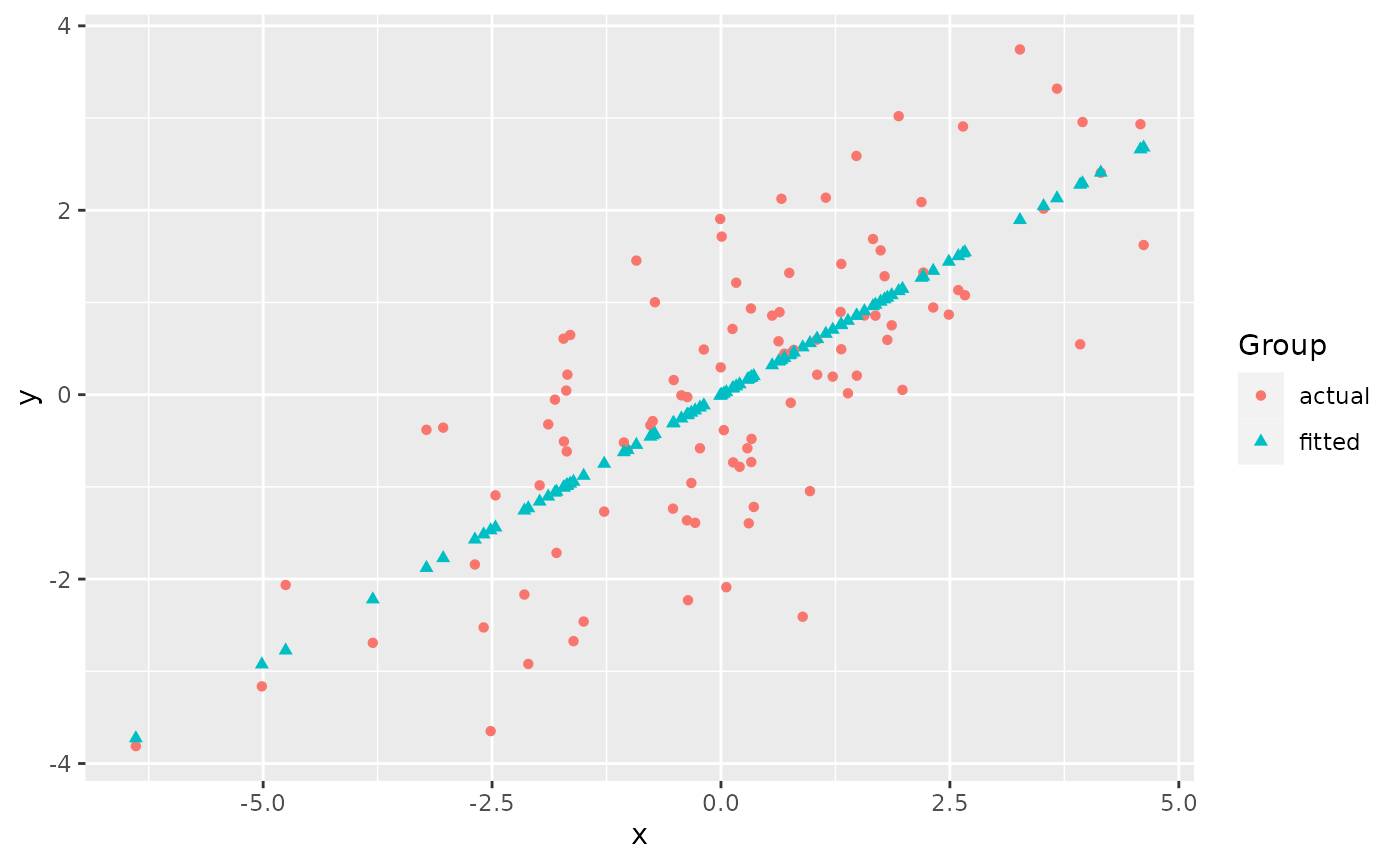
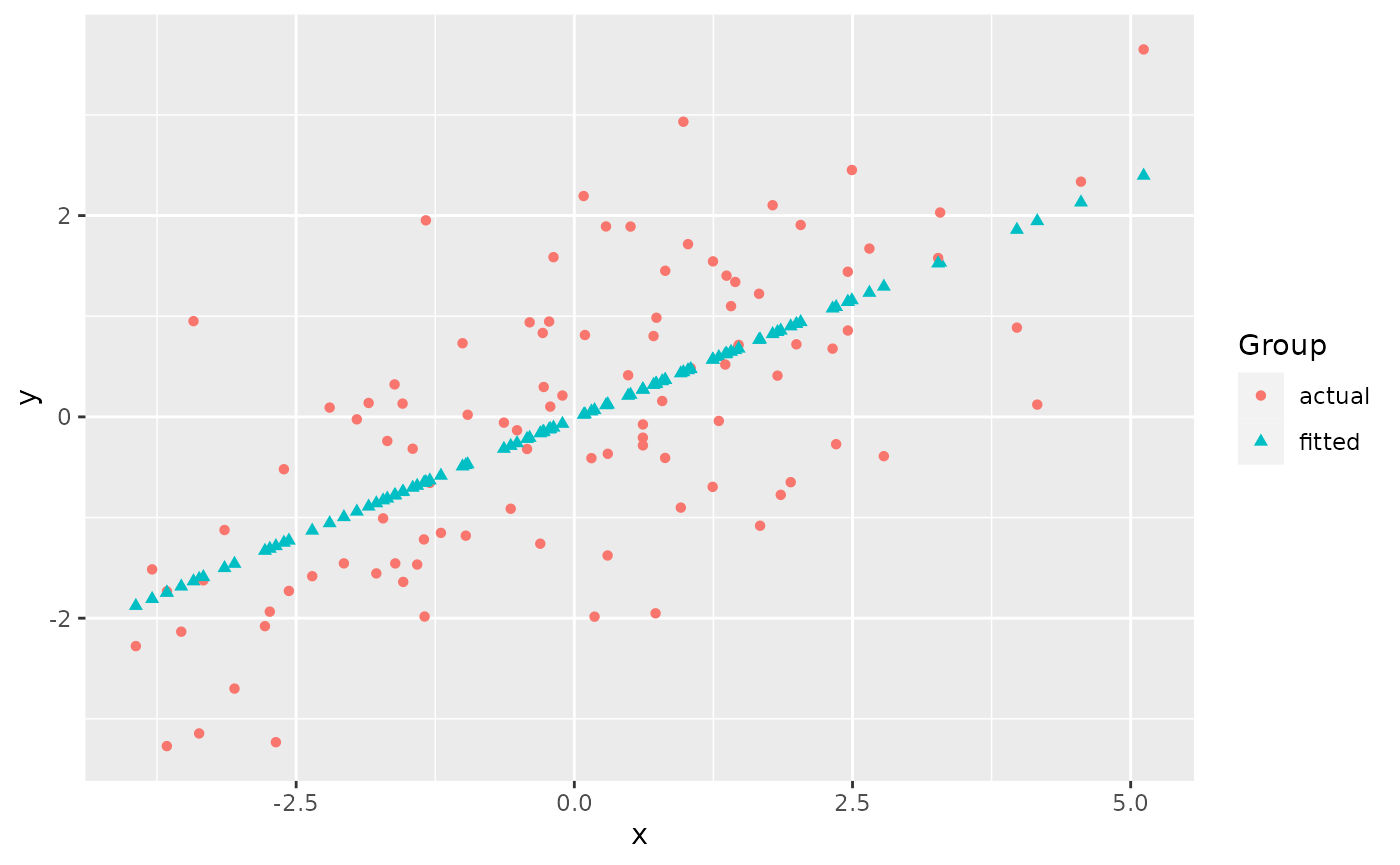
Built site for ggmatplot: 0.1.0@8f145c8

diff --git a/articles/ggmatplot.html b/articles/ggmatplot.html
@@ -101,7 +101,7 @@
 <span class="va">x</span> <span class="op">&lt;-</span> <span class="fu"><a href="https://rdrr.io/r/base/c.html">c</a></span><span class="op">(</span><span class="fu"><a href="https://rdrr.io/r/stats/Normal.html">rnorm</a></span><span class="op">(</span><span class="fl">100</span>, sd <span class="op">=</span> <span class="fl">2</span><span class="op">)</span><span class="op">)</span>
 
 <span class="fu"><a href="https://rdrr.io/r/utils/head.html">head</a></span><span class="op">(</span><span class="va">x</span><span class="op">)</span>
-<span class="co">#&gt; [1]  2.5917937  1.0507029 -0.2296179  0.9717122 -1.8865638 -1.6844239</span>
+<span class="co">#&gt; [1] -2.7803377  2.3528281 -3.7942724 -0.2265223  1.9955695 -1.3456733</span>
 
 <span class="co"># matrix z</span>
 <span class="va">y</span> <span class="op">&lt;-</span> <span class="va">x</span> <span class="op">*</span> <span class="fl">0.5</span> <span class="op">+</span> <span class="fu"><a href="https://rdrr.io/r/stats/Normal.html">rnorm</a></span><span class="op">(</span><span class="fl">100</span>, sd <span class="op">=</span> <span class="fl">1</span><span class="op">)</span>
@@ -111,12 +111,12 @@
 
 <span class="fu"><a href="https://rdrr.io/r/utils/head.html">head</a></span><span class="op">(</span><span class="va">z</span><span class="op">)</span>
 <span class="co">#&gt;       actual     fitted</span>
-<span class="co">#&gt; 1  1.1338425  1.5027161</span>
-<span class="co">#&gt; 2  0.2164647  0.6055352</span>
-<span class="co">#&gt; 3 -0.5813046 -0.1398325</span>
-<span class="co">#&gt; 4 -1.0460801  0.5595490</span>
-<span class="co">#&gt; 5 -0.3216372 -1.1044611</span>
-<span class="co">#&gt; 6 -0.6152521 -0.9867808</span></code></pre></div>
+<span class="co">#&gt; 1 -2.0793029 -1.3303382</span>
+<span class="co">#&gt; 2 -0.2712697  1.0922606</span>
+<span class="co">#&gt; 3 -1.5151676 -1.8088649</span>
+<span class="co">#&gt; 4  0.9472327 -0.1250644</span>
+<span class="co">#&gt; 5  0.7210766  0.9236523</span>
+<span class="co">#&gt; 6 -1.9836083 -0.6532480</span></code></pre></div>
 <p><code>ggmatplot</code> plots vector <code>x</code> against each column of matrix <code>z</code> using the default <code>plot_type = "point"</code>. This will be represented on the resulting plot as two groups, identified using different shapes and colors.</p>
 <div class="sourceCode" id="cb2"><pre class="downlit sourceCode r">
 <code class="sourceCode R"><span class="kw"><a href="https://rdrr.io/r/base/library.html">library</a></span><span class="op">(</span><span class="va"><a href="https://github.com/xuan-liang/ggmatplot">ggmatplot</a></span><span class="op">)</span>
@@ -245,7 +245,7 @@
 
 
       <footer><div class="copyright">
-  <p>Developed by Xuan Liang, Francis Hui, Emi Tanaka, Dilinie Seimon.</p>
+  <p>Developed by Xuan Liang, Francis K. C. Hui, Emi Tanaka, Dilinie Seimon.</p>
 </div>
 
 <div class="pkgdown">

diff --git a/index.html b/index.html
@@ -306,9 +306,9 @@
 <div class="developers">
 <h2>Developers</h2>
 <ul class="list-unstyled">
-<li>Xuan Liang <br><small class="roles"> Author, maintainer </small>  </li>
-<li>Francis Hui <br><small class="roles"> Author </small>  </li>
-<li>Emi Tanaka <br><small class="roles"> Author </small>  </li>
+<li>Xuan Liang <br><small class="roles"> Author, maintainer </small> <a href="https://orcid.org/0000-0002-0792-3751" target="orcid.widget" aria-label="ORCID"><span class="fab fa-orcid orcid" aria-hidden="true"></span></a> </li>
+<li>Francis K. C. Hui <br><small class="roles"> Author </small> <a href="https://orcid.org/0000-0003-0765-3533" target="orcid.widget" aria-label="ORCID"><span class="fab fa-orcid orcid" aria-hidden="true"></span></a> </li>
+<li>Emi Tanaka <br><small class="roles"> Author </small> <a href="https://orcid.org/0000-0002-1455-259X" target="orcid.widget" aria-label="ORCID"><span class="fab fa-orcid orcid" aria-hidden="true"></span></a> </li>
 <li>Dilinie Seimon <br><small class="roles"> Author </small>  </li>
 </ul>
 </div>
@@ -318,7 +318,7 @@
 
 
       <footer><div class="copyright">
-  <p>Developed by Xuan Liang, Francis Hui, Emi Tanaka, Dilinie Seimon.</p>
+  <p>Developed by Xuan Liang, Francis K. C. Hui, Emi Tanaka, Dilinie Seimon.</p>
 </div>
 
 <div class="pkgdown">

diff --git a/authors.html b/authors.html
@@ -138,15 +138,15 @@
 
     <ul class="list-unstyled">
       <li>
-        <p><strong>Xuan Liang</strong>. Author, maintainer. 
+        <p><strong>Xuan Liang</strong>. Author, maintainer. <a href='https://orcid.org/0000-0002-0792-3751' target='orcid.widget' aria-label='ORCID'><span class='fab fa-orcid orcid' aria-hidden='true'></span></a>
         </p>
       </li>
       <li>
-        <p><strong>Francis Hui</strong>. Author. 
+        <p><strong>Francis K. C. Hui</strong>. Author. <a href='https://orcid.org/0000-0003-0765-3533' target='orcid.widget' aria-label='ORCID'><span class='fab fa-orcid orcid' aria-hidden='true'></span></a>
         </p>
       </li>
       <li>
-        <p><strong>Emi Tanaka</strong>. Author. 
+        <p><strong>Emi Tanaka</strong>. Author. <a href='https://orcid.org/0000-0002-1455-259X' target='orcid.widget' aria-label='ORCID'><span class='fab fa-orcid orcid' aria-hidden='true'></span></a>
         </p>
       </li>
       <li>
@@ -163,7 +163,7 @@
 
       <footer>
       <div class="copyright">
-  <p>Developed by Xuan Liang, Francis Hui, Emi Tanaka, Dilinie Seimon.</p>
+  <p>Developed by Xuan Liang, Francis K. C. Hui, Emi Tanaka, Dilinie Seimon.</p>
 </div>
 
 <div class="pkgdown">

diff --git a/reference/ggmatplot.html b/reference/ggmatplot.html
@@ -283,7 +283,7 @@ or <a href='https://ggplot2.tidyverse.org/reference/index.html#section-stats'><c
 
       <footer>
       <div class="copyright">
-  <p>Developed by Xuan Liang, Francis Hui, Emi Tanaka, Dilinie Seimon.</p>
+  <p>Developed by Xuan Liang, Francis K. C. Hui, Emi Tanaka, Dilinie Seimon.</p>
 </div>
 
 <div class="pkgdown">

diff --git a/404.html b/404.html
@@ -138,7 +138,7 @@ Content not found. Please use links in the navbar.
 
       <footer>
       <div class="copyright">
-  <p>Developed by Xuan Liang, Francis Hui, Emi Tanaka, Dilinie Seimon.</p>
+  <p>Developed by Xuan Liang, Francis K. C. Hui, Emi Tanaka, Dilinie Seimon.</p>
 </div>
 
 <div class="pkgdown">

diff --git a/LICENSE.html b/LICENSE.html
@@ -360,7 +360,7 @@
 
       <footer>
       <div class="copyright">
-  <p>Developed by Xuan Liang, Francis Hui, Emi Tanaka, Dilinie Seimon.</p>
+  <p>Developed by Xuan Liang, Francis K. C. Hui, Emi Tanaka, Dilinie Seimon.</p>
 </div>
 
 <div class="pkgdown">

diff --git a/articles/index.html b/articles/index.html
@@ -137,7 +137,7 @@
 
       <footer>
       <div class="copyright">
-  <p>Developed by Xuan Liang, Francis Hui, Emi Tanaka, Dilinie Seimon.</p>
+  <p>Developed by Xuan Liang, Francis K. C. Hui, Emi Tanaka, Dilinie Seimon.</p>
 </div>
 
 <div class="pkgdown">

diff --git a/reference/index.html b/reference/index.html
@@ -163,7 +163,7 @@
 
       <footer>
       <div class="copyright">
-  <p>Developed by Xuan Liang, Francis Hui, Emi Tanaka, Dilinie Seimon.</p>
+  <p>Developed by Xuan Liang, Francis K. C. Hui, Emi Tanaka, Dilinie Seimon.</p>
 </div>
 
 <div class="pkgdown">
